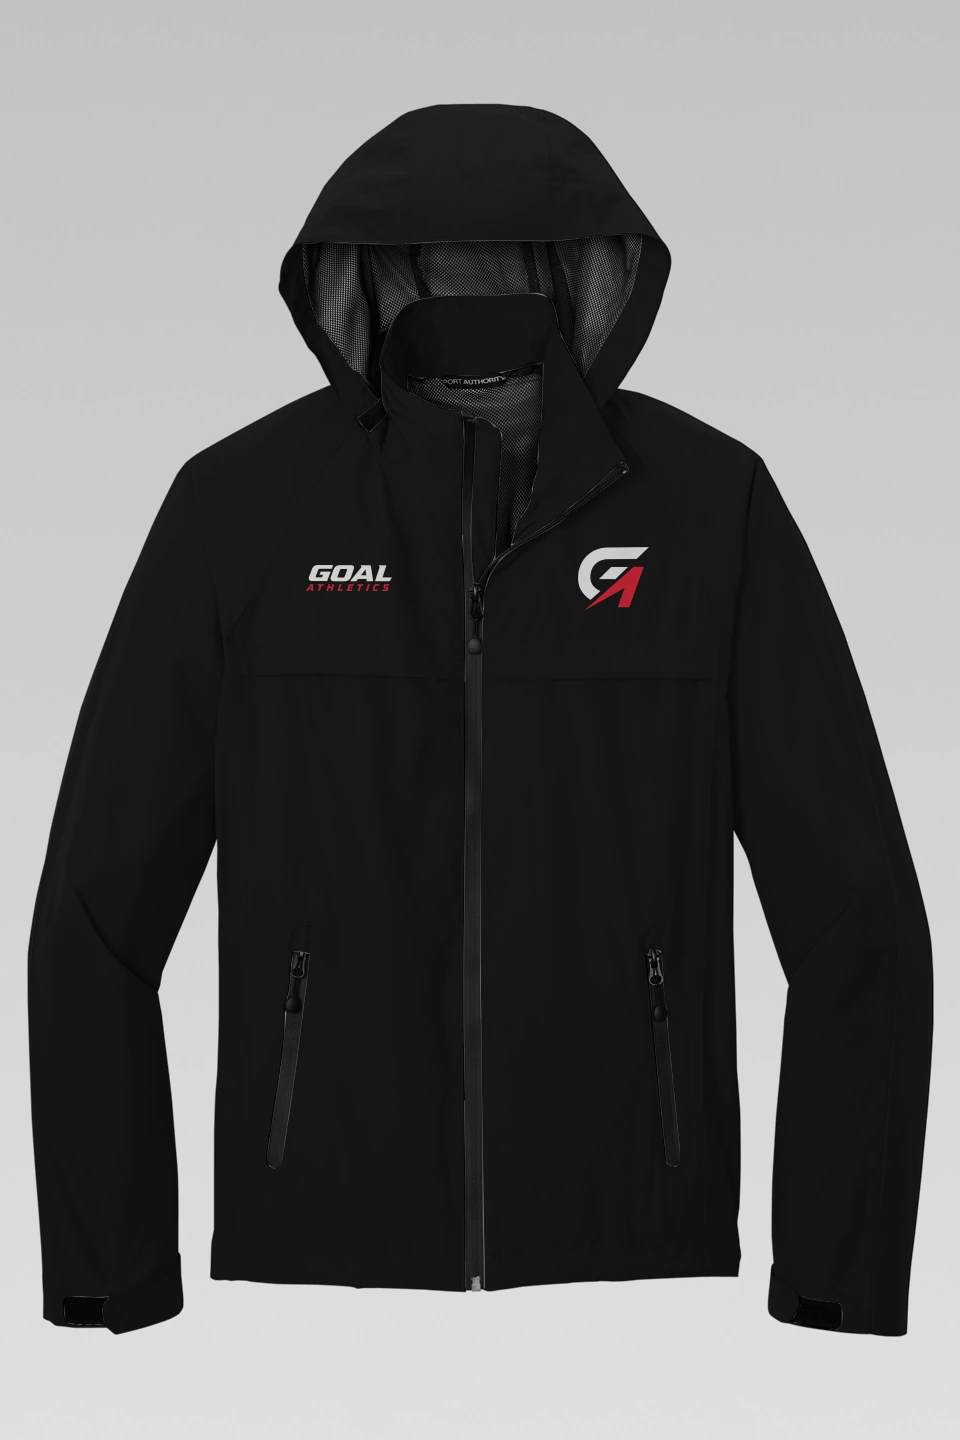
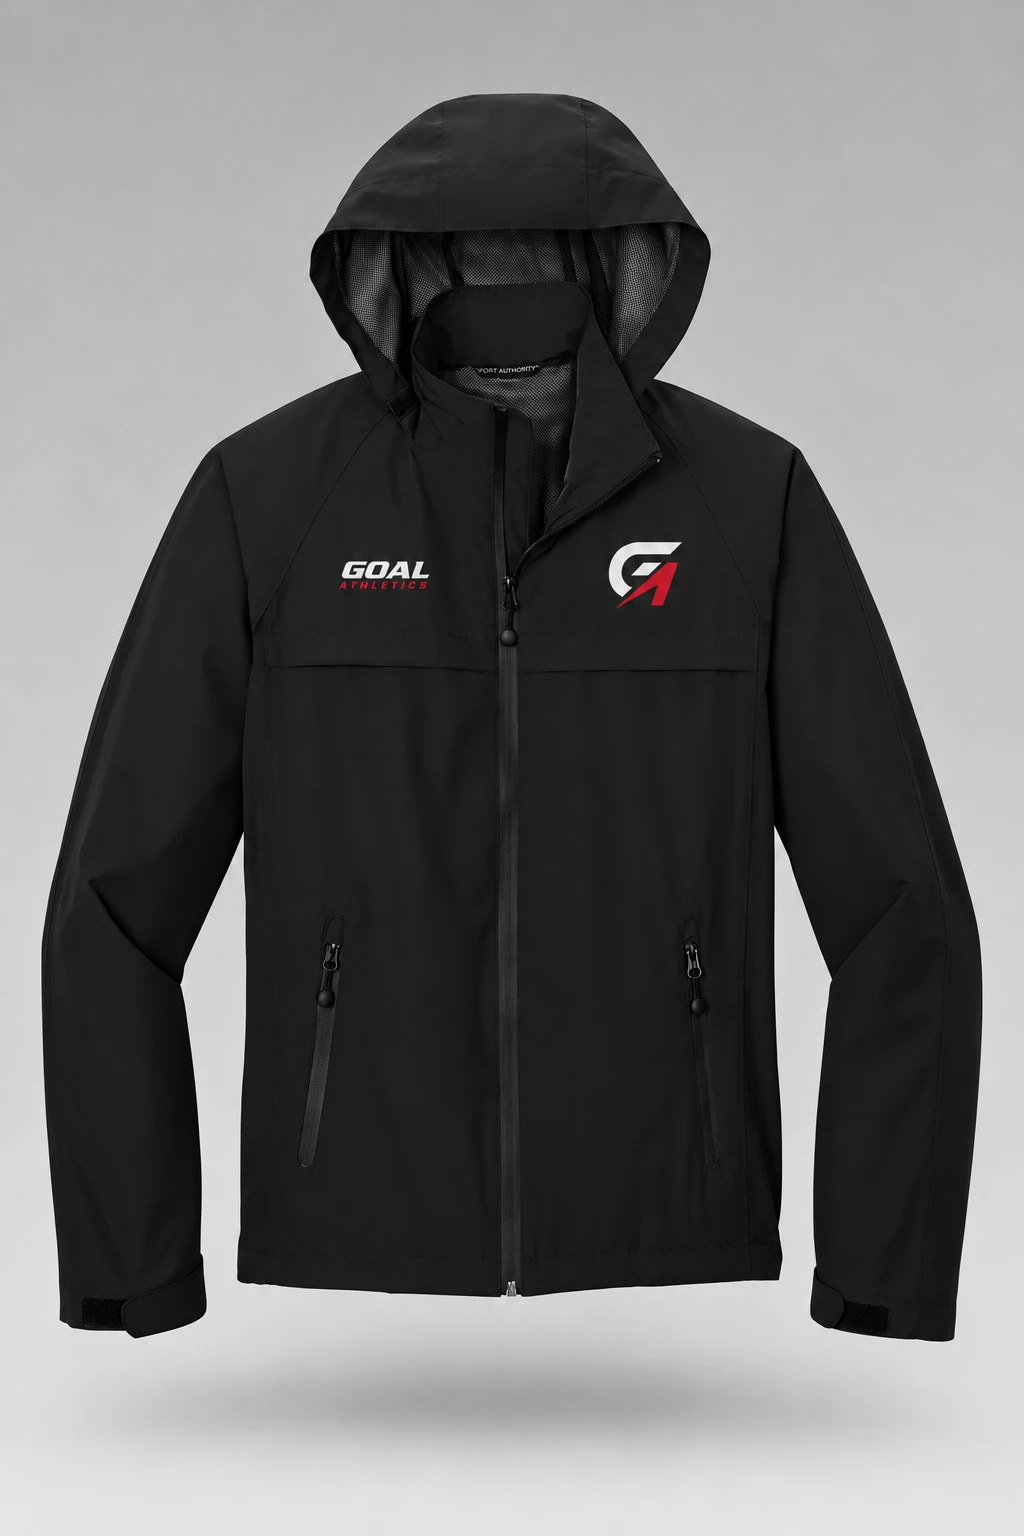
Owner product fronts and backs for the Core Everyday Raincoat
Owner instruction 2026-10-26: the owner's product shots (front and back
per colour, 1024 x 1536, used as given) replace the Apliiq renders at the
existing front paths (cache revision owner-front-20261026) and the backs
join each gallery as the second image. Model pictures follow.

diff --git a/src/lib/products.ts b/src/lib/products.ts
@@ -3948,11 +3948,12 @@ export const products: Product[] = [
     images: [
       {
         src: "/products/goal-core-everyday-raincoat-black-catalog-product-front-20261026.webp",
-        alt: "GOAL Athletics Core Everyday Raincoat in Black, product front with the white and red GA monogram on the left chest and the GOAL ATHLETICS wordmark on the right chest",
+        alt: "GOAL Athletics Core Everyday Raincoat in Black, product front with the white and red GA monogram on the left chest and the white and red GOAL ATHLETICS wordmark on the right chest, hood up",
       },
     ],
     // Swatches sampled from the garment body of Apliiq's own renders
-    // (2026-10-26).
+    // (2026-10-26). Owner product shots replaced those renders at the same
+    // front paths later that day (revision owner-front-20261026).
     colorVariants: [
       {
         name: "Black",
@@ -3962,7 +3963,11 @@ export const products: Product[] = [
         images: [
           {
             src: "/products/goal-core-everyday-raincoat-black-catalog-product-front-20261026.webp",
-            alt: "GOAL Athletics Core Everyday Raincoat in Black, product front with the white and red GA monogram on the left chest and the GOAL ATHLETICS wordmark on the right chest",
+            alt: "GOAL Athletics Core Everyday Raincoat in Black, product front with the white and red GA monogram on the left chest and the white and red GOAL ATHLETICS wordmark on the right chest, hood up",
+          },
+          {
+            src: "/products/goal-core-everyday-raincoat-black-catalog-product-back-20261026.webp",
+            alt: "GOAL Athletics Core Everyday Raincoat in Black, product back, plain with the hood down",
           },
         ],
       },
@@ -3974,7 +3979,11 @@ export const products: Product[] = [
         images: [
           {
             src: "/products/goal-core-everyday-raincoat-true-navy-catalog-product-front-20261026.webp",
-            alt: "GOAL Athletics Core Everyday Raincoat in True Navy, product front with the cream GA monogram on the left chest and the cream GOAL ATHLETICS wordmark on the right chest",
+            alt: "GOAL Athletics Core Everyday Raincoat in True Navy, product front with the cream GA monogram on the left chest and the cream GOAL ATHLETICS wordmark on the right chest, hood up",
+          },
+          {
+            src: "/products/goal-core-everyday-raincoat-true-navy-catalog-product-back-20261026.webp",
+            alt: "GOAL Athletics Core Everyday Raincoat in True Navy, product back, plain with the hood down",
           },
         ],
       },
@@ -3986,7 +3995,11 @@ export const products: Product[] = [
         images: [
           {
             src: "/products/goal-core-everyday-raincoat-dark-grey-heather-catalog-product-front-20261026.webp",
-            alt: "GOAL Athletics Core Everyday Raincoat in Dark Grey Heather, product front with the black GA monogram on the left chest and the black GOAL ATHLETICS wordmark on the right chest",
+            alt: "GOAL Athletics Core Everyday Raincoat in Dark Grey Heather, product front with the black GA monogram on the left chest and the black GOAL ATHLETICS wordmark on the right chest, hood up",
+          },
+          {
+            src: "/products/goal-core-everyday-raincoat-dark-grey-heather-catalog-product-back-20261026.webp",
+            alt: "GOAL Athletics Core Everyday Raincoat in Dark Grey Heather, product back, plain with the hood down",
           },
         ],
       },

diff --git a/src/lib/product-image.ts b/src/lib/product-image.ts
@@ -25,6 +25,9 @@ export function catalogImageSrc(src: string): string {
     "/products/goal-heritage-hoodie-grey-heather-catalog-product-front-20261022.webp": "grey-heather-front-photo-20261022",
     // Black front replaced again by the owner's v2 shot on 2026-10-26.
     "/products/goal-heritage-hoodie-black-catalog-product-front-20261022.webp": "black-front-photo-v2-20261026",
+  "/products/goal-core-everyday-raincoat-black-catalog-product-front-20261026.webp": "owner-front-20261026",
+  "/products/goal-core-everyday-raincoat-true-navy-catalog-product-front-20261026.webp": "owner-front-20261026",
+  "/products/goal-core-everyday-raincoat-dark-grey-heather-catalog-product-front-20261026.webp": "owner-front-20261026",
     "/products/goal-heritage-hoodie-navy-catalog-product-front-20261022.webp": "navy-front-photo-20261022",
     "/products/goal-heritage-hoodie-bone-catalog-product-front-20261022.webp": "bone-front-photo-v2-20261022",
     // Lockup Hoodie: the owner's product shots replaced the Apliiq renders.

diff --git a/designs/61_core-everyday-raincoat-j333-2026-10-26/README.md b/designs/61_core-everyday-raincoat-j333-2026-10-26/README.md
@@ -51,6 +51,13 @@ physical sample exists. Proof-check the first order's mockup.
 `site-images/`: the same renders on the studio backdrop at 2:3 via
 `scripts/studio-backdrop-product-shot.py` (default settings), copied to
 `public/products/goal-core-everyday-raincoat-<colour>-catalog-product-front-20261026.webp`.
-These are supplier renders, not photographs of a manufactured sample.
-Swap for owner photos at the same paths with a new revision in
-`src/lib/product-image.ts`.
+Those renders were on the site from launch until later on 2026-10-26.
+
+**Owner product shots (2026-10-26, later):** the owner supplied a front
+and a back per colour (1024 x 1536, 2:3, used as given, no retouching);
+originals in `as-received-owner/`. The fronts replaced the renders at the
+same `public/products/...-product-front-20261026.webp` paths (revision
+`owner-front-20261026` in `src/lib/product-image.ts`) and the backs were
+added as `...-product-back-20261026.webp`, second in each gallery. The
+owner's ten uploads were five byte-identical pairs; one of each was kept.
+Model pictures are next (owner).
